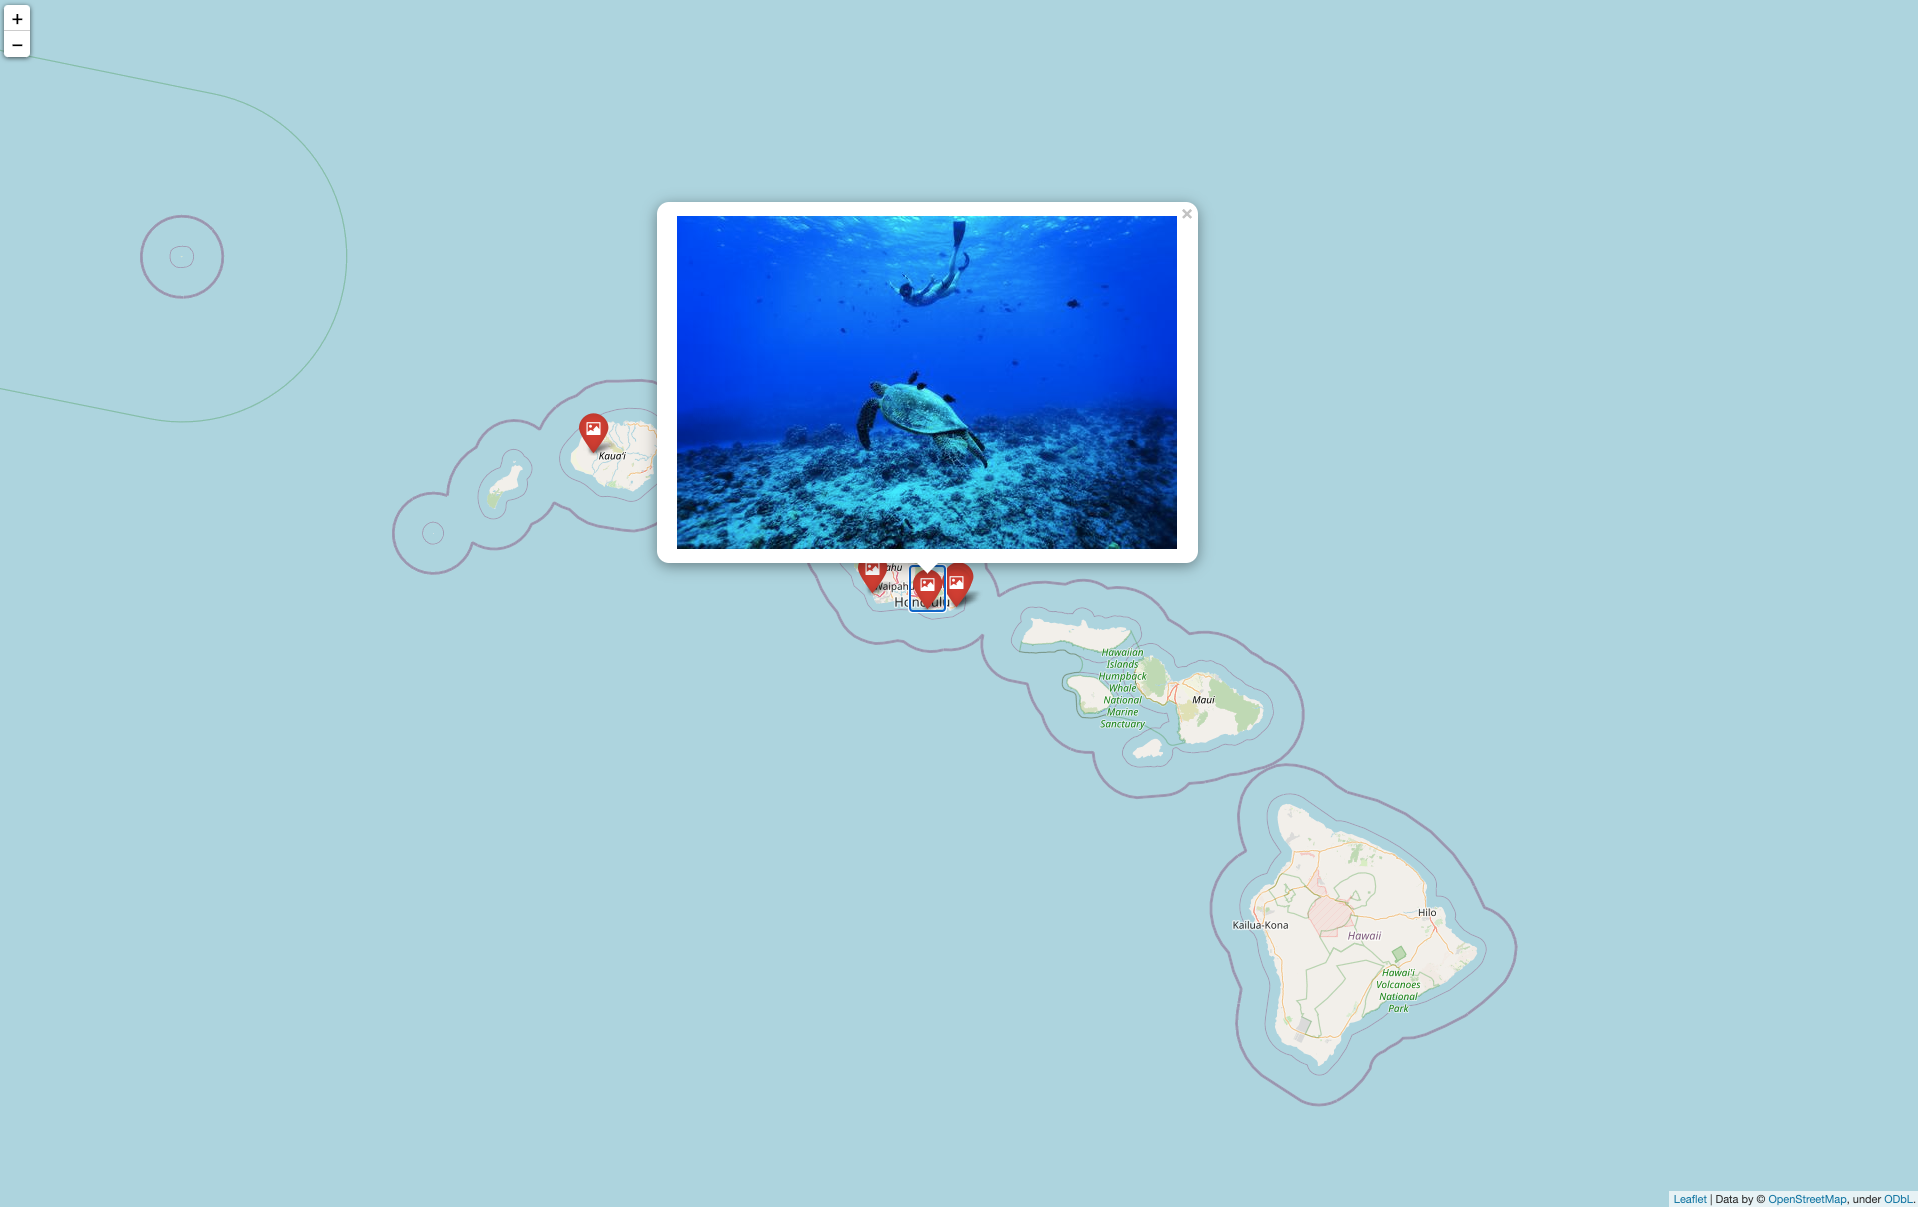
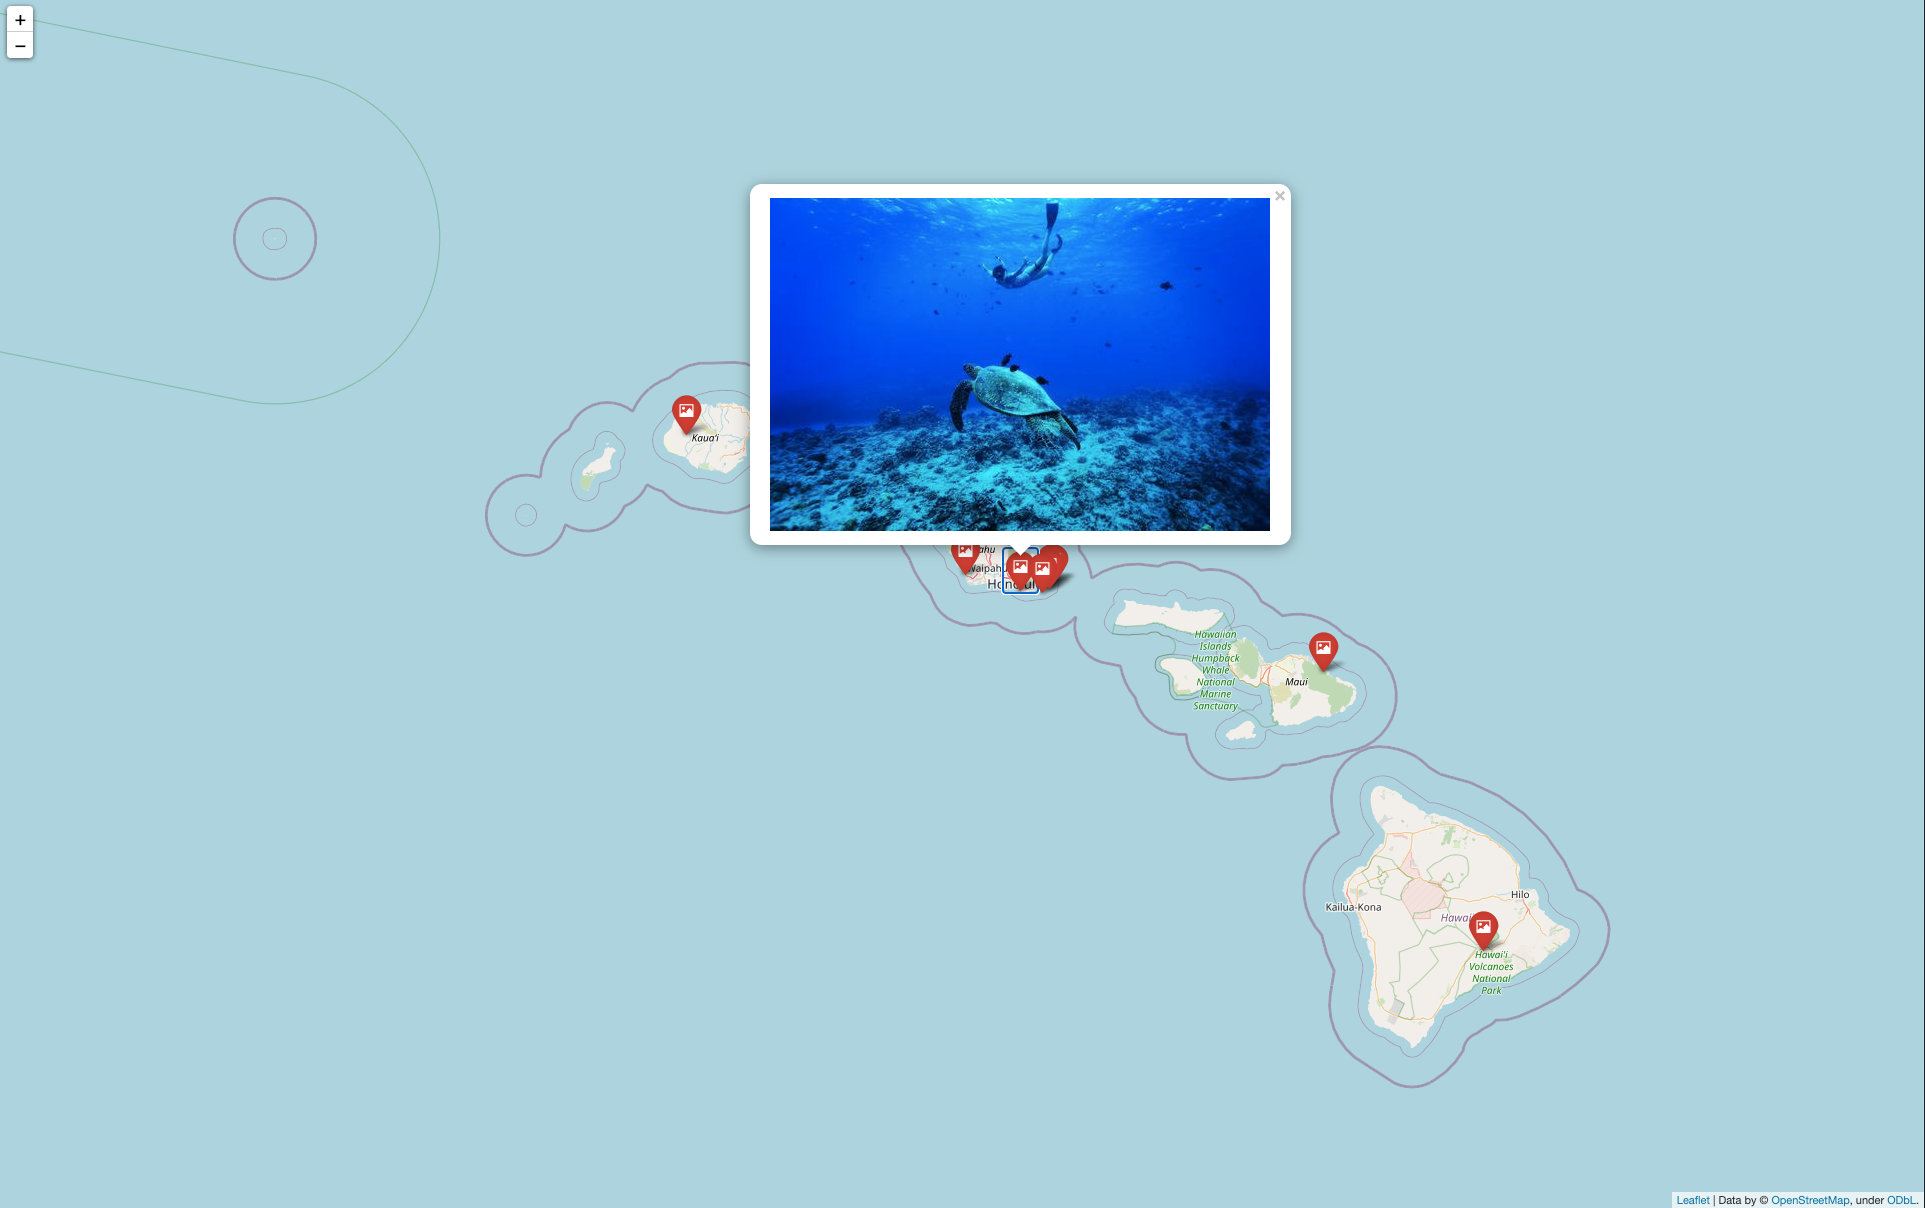
updated Hawaii photo map

diff --git a/HI_photo_map/HI_photo_map.html b/HI_photo_map/HI_photo_map.html
@@ -23,7 +23,7 @@
             <meta name="viewport" content="width=device-width,
                 initial-scale=1.0, maximum-scale=1.0, user-scalable=no" />
             <style>
-                #map_1778b9cac8e34a18972c1067f2814e41 {
+                #map_151ff289344e4fd0bc8cd398af7179ac {
                     position: relative;
                     width: 100.0%;
                     height: 100.0%;
@@ -35,13 +35,13 @@
 </head>
 <body>    
     
-            <div class="folium-map" id="map_1778b9cac8e34a18972c1067f2814e41" ></div>
+            <div class="folium-map" id="map_151ff289344e4fd0bc8cd398af7179ac" ></div>
         
 </body>
 <script>    
     
-            var map_1778b9cac8e34a18972c1067f2814e41 = L.map(
-                "map_1778b9cac8e34a18972c1067f2814e41",
+            var map_151ff289344e4fd0bc8cd398af7179ac = L.map(
+                "map_151ff289344e4fd0bc8cd398af7179ac",
                 {
                     center: [21.310665, -157.65995800000002],
                     crs: L.CRS.EPSG3857,
@@ -55,157 +55,257 @@
 
         
     
-            var tile_layer_125ace8a855c4006ab09678da1c03a6c = L.tileLayer(
+            var tile_layer_0d3f80edb4b34000b47f442fbccea69a = L.tileLayer(
                 "https://{s}.tile.openstreetmap.org/{z}/{x}/{y}.png",
                 {"attribution": "Data by \u0026copy; \u003ca href=\"http://openstreetmap.org\"\u003eOpenStreetMap\u003c/a\u003e, under \u003ca href=\"http://www.openstreetmap.org/copyright\"\u003eODbL\u003c/a\u003e.", "detectRetina": false, "maxNativeZoom": 18, "maxZoom": 18, "minZoom": 0, "noWrap": false, "opacity": 1, "subdomains": "abc", "tms": false}
-            ).addTo(map_1778b9cac8e34a18972c1067f2814e41);
+            ).addTo(map_151ff289344e4fd0bc8cd398af7179ac);
         
     
-            var marker_ce96613eab73425986d612bd2431685c = L.marker(
+            var marker_f58926746f054f9d9a1cb54aec8a5c6c = L.marker(
                 [21.310665, -157.65995800000002],
                 {}
-            ).addTo(map_1778b9cac8e34a18972c1067f2814e41);
+            ).addTo(map_151ff289344e4fd0bc8cd398af7179ac);
         
     
-            var icon_bcbe2043fa1a46138bafba561828b867 = L.AwesomeMarkers.icon(
+            var icon_5c18ddf4556040269b01476ec036f3ac = L.AwesomeMarkers.icon(
                 {"extraClasses": "fa-rotate-0", "icon": "picture", "iconColor": "white", "markerColor": "red", "prefix": "glyphicon"}
             );
-            marker_ce96613eab73425986d612bd2431685c.setIcon(icon_bcbe2043fa1a46138bafba561828b867);
+            marker_f58926746f054f9d9a1cb54aec8a5c6c.setIcon(icon_5c18ddf4556040269b01476ec036f3ac);
         
     
-        var popup_fa4739df42e341988206bd3262ebf797 = L.popup({"maxWidth": 500});
+        var popup_295a485c0f1b434bb1a3f6bbfbd962eb = L.popup({"maxWidth": 500});
 
         
-            var html_6f2b37d200aa4fb490f6aa81a6bbf4e3 = $(`<div id="html_6f2b37d200aa4fb490f6aa81a6bbf4e3" style="width: 100.0%; height: 100.0%;"><img src=./photos/thumbnails/20150228_151347.jpg></div>`)[0];
-            popup_fa4739df42e341988206bd3262ebf797.setContent(html_6f2b37d200aa4fb490f6aa81a6bbf4e3);
+            var html_3b40ccd76be747ce92a40b8fa1ae6469 = $(`<div id="html_3b40ccd76be747ce92a40b8fa1ae6469" style="width: 100.0%; height: 100.0%;"><img src=./photos/thumbnails/20150228_151347.jpg></div>`)[0];
+            popup_295a485c0f1b434bb1a3f6bbfbd962eb.setContent(html_3b40ccd76be747ce92a40b8fa1ae6469);
         
 
-        marker_ce96613eab73425986d612bd2431685c.bindPopup(popup_fa4739df42e341988206bd3262ebf797)
+        marker_f58926746f054f9d9a1cb54aec8a5c6c.bindPopup(popup_295a485c0f1b434bb1a3f6bbfbd962eb)
         ;
 
         
     
     
-            var marker_1e548837dd81431aaab9d9848bd94106 = L.marker(
+            var marker_5bc829d55922417fbf695b3def26ee57 = L.marker(
                 [22.0715, -159.6617],
                 {}
-            ).addTo(map_1778b9cac8e34a18972c1067f2814e41);
+            ).addTo(map_151ff289344e4fd0bc8cd398af7179ac);
         
     
-            var icon_79496dea79714476a48680c90d717e4e = L.AwesomeMarkers.icon(
+            var icon_dee5d3e647f14a70b3bb17164cdfbd0e = L.AwesomeMarkers.icon(
                 {"extraClasses": "fa-rotate-0", "icon": "picture", "iconColor": "white", "markerColor": "red", "prefix": "glyphicon"}
             );
-            marker_1e548837dd81431aaab9d9848bd94106.setIcon(icon_79496dea79714476a48680c90d717e4e);
+            marker_5bc829d55922417fbf695b3def26ee57.setIcon(icon_dee5d3e647f14a70b3bb17164cdfbd0e);
         
     
-        var popup_d2c17e06e3f147ae9c76d342105490a9 = L.popup({"maxWidth": 500});
+        var popup_875dace3b5124160836bc5b73f60c5e6 = L.popup({"maxWidth": 500});
 
         
-            var html_4c97ed02cd574f8eb7d87a2e42dc838a = $(`<div id="html_4c97ed02cd574f8eb7d87a2e42dc838a" style="width: 100.0%; height: 100.0%;"><img src=./photos/thumbnails/20151114_095713.jpg></div>`)[0];
-            popup_d2c17e06e3f147ae9c76d342105490a9.setContent(html_4c97ed02cd574f8eb7d87a2e42dc838a);
+            var html_340d559f53e54588800f88ff987e495e = $(`<div id="html_340d559f53e54588800f88ff987e495e" style="width: 100.0%; height: 100.0%;"><img src=./photos/thumbnails/20151114_095713.jpg></div>`)[0];
+            popup_875dace3b5124160836bc5b73f60c5e6.setContent(html_340d559f53e54588800f88ff987e495e);
         
 
-        marker_1e548837dd81431aaab9d9848bd94106.bindPopup(popup_d2c17e06e3f147ae9c76d342105490a9)
+        marker_5bc829d55922417fbf695b3def26ee57.bindPopup(popup_875dace3b5124160836bc5b73f60c5e6)
         ;
 
         
     
     
-            var marker_b0cd87b2c12d43ab9d2eebfea0b97ed0 = L.marker(
+            var marker_444629fccfb84903ba0e94c84ad3eb40 = L.marker(
                 [21.559002300000003, -157.863791],
                 {}
-            ).addTo(map_1778b9cac8e34a18972c1067f2814e41);
+            ).addTo(map_151ff289344e4fd0bc8cd398af7179ac);
         
     
-            var icon_858094ac69cb4b74acfbc6f30e3d8ff6 = L.AwesomeMarkers.icon(
+            var icon_b79e25af4fda4ec998cb27adb1a25c23 = L.AwesomeMarkers.icon(
                 {"extraClasses": "fa-rotate-0", "icon": "picture", "iconColor": "white", "markerColor": "red", "prefix": "glyphicon"}
             );
-            marker_b0cd87b2c12d43ab9d2eebfea0b97ed0.setIcon(icon_858094ac69cb4b74acfbc6f30e3d8ff6);
+            marker_444629fccfb84903ba0e94c84ad3eb40.setIcon(icon_b79e25af4fda4ec998cb27adb1a25c23);
         
     
-        var popup_8a9ed89b478f4f1fba46be18809b887d = L.popup({"maxWidth": 500});
+        var popup_06d53f853e074454a2d6ee4a407c1819 = L.popup({"maxWidth": 500});
 
         
-            var html_8fa8288fce1f4f3496231e192be53adf = $(`<div id="html_8fa8288fce1f4f3496231e192be53adf" style="width: 100.0%; height: 100.0%;"><img src=./photos/thumbnails/20151224_131404.jpg></div>`)[0];
-            popup_8a9ed89b478f4f1fba46be18809b887d.setContent(html_8fa8288fce1f4f3496231e192be53adf);
+            var html_5619109de2504e0c91d3ce5aae44c8ef = $(`<div id="html_5619109de2504e0c91d3ce5aae44c8ef" style="width: 100.0%; height: 100.0%;"><img src=./photos/thumbnails/20151224_131404.jpg></div>`)[0];
+            popup_06d53f853e074454a2d6ee4a407c1819.setContent(html_5619109de2504e0c91d3ce5aae44c8ef);
         
 
-        marker_b0cd87b2c12d43ab9d2eebfea0b97ed0.bindPopup(popup_8a9ed89b478f4f1fba46be18809b887d)
+        marker_444629fccfb84903ba0e94c84ad3eb40.bindPopup(popup_06d53f853e074454a2d6ee4a407c1819)
         ;
 
         
     
     
-            var marker_1d0fd3f72d574fb4956487f6472723a7 = L.marker(
+            var marker_a98d9d53c3e747509f7248fd50da5451 = L.marker(
                 [21.2857, -157.6727],
                 {}
-            ).addTo(map_1778b9cac8e34a18972c1067f2814e41);
+            ).addTo(map_151ff289344e4fd0bc8cd398af7179ac);
         
     
-            var icon_f445405334d64d39a098b2f43ff5b4ce = L.AwesomeMarkers.icon(
+            var icon_a754d7a632ca48acb2f2936138adc85d = L.AwesomeMarkers.icon(
                 {"extraClasses": "fa-rotate-0", "icon": "picture", "iconColor": "white", "markerColor": "red", "prefix": "glyphicon"}
             );
-            marker_1d0fd3f72d574fb4956487f6472723a7.setIcon(icon_f445405334d64d39a098b2f43ff5b4ce);
+            marker_a98d9d53c3e747509f7248fd50da5451.setIcon(icon_a754d7a632ca48acb2f2936138adc85d);
         
     
-        var popup_00f85806e999486683ca58ab8c7c4284 = L.popup({"maxWidth": 500});
+        var popup_97dd2f21ba3f482ba069d792e88df758 = L.popup({"maxWidth": 500});
 
         
-            var html_dce8664371184ad392478fbb1f182908 = $(`<div id="html_dce8664371184ad392478fbb1f182908" style="width: 100.0%; height: 100.0%;"><img src=./photos/thumbnails/G4396954.BESTIST.JPG></div>`)[0];
-            popup_00f85806e999486683ca58ab8c7c4284.setContent(html_dce8664371184ad392478fbb1f182908);
+            var html_51ff77c885ee4118ae84320177c2e58a = $(`<div id="html_51ff77c885ee4118ae84320177c2e58a" style="width: 100.0%; height: 100.0%;"><img src=./photos/thumbnails/G4396954.BESTIST.JPG></div>`)[0];
+            popup_97dd2f21ba3f482ba069d792e88df758.setContent(html_51ff77c885ee4118ae84320177c2e58a);
         
 
-        marker_1d0fd3f72d574fb4956487f6472723a7.bindPopup(popup_00f85806e999486683ca58ab8c7c4284)
+        marker_a98d9d53c3e747509f7248fd50da5451.bindPopup(popup_97dd2f21ba3f482ba069d792e88df758)
         ;
 
         
     
     
-            var marker_d81646be235849cdb137cfe59395637c = L.marker(
+            var marker_36570a8f54154c2182155a6f3b8bb5ab = L.marker(
                 [21.272993, -157.8287],
                 {}
-            ).addTo(map_1778b9cac8e34a18972c1067f2814e41);
+            ).addTo(map_151ff289344e4fd0bc8cd398af7179ac);
         
     
-            var icon_ad15ae07ff6141a7ba2e3f612d343da5 = L.AwesomeMarkers.icon(
+            var icon_94d0f251d6ec495b9915f185b883a391 = L.AwesomeMarkers.icon(
                 {"extraClasses": "fa-rotate-0", "icon": "picture", "iconColor": "white", "markerColor": "red", "prefix": "glyphicon"}
             );
-            marker_d81646be235849cdb137cfe59395637c.setIcon(icon_ad15ae07ff6141a7ba2e3f612d343da5);
+            marker_36570a8f54154c2182155a6f3b8bb5ab.setIcon(icon_94d0f251d6ec495b9915f185b883a391);
         
     
-        var popup_9b5da981e78e4d36be14c79726510b11 = L.popup({"maxWidth": 500});
+        var popup_c08a4975c29f4a48b241d11ab8a7c50c = L.popup({"maxWidth": 500});
 
         
-            var html_25c4cfd0125648f4b550de9517e9322f = $(`<div id="html_25c4cfd0125648f4b550de9517e9322f" style="width: 100.0%; height: 100.0%;"><img src=./photos/thumbnails/IMG_20181214_145604_044.jpg></div>`)[0];
-            popup_9b5da981e78e4d36be14c79726510b11.setContent(html_25c4cfd0125648f4b550de9517e9322f);
+            var html_b9dc08efa0fb4d5a93aaf922a45a9e78 = $(`<div id="html_b9dc08efa0fb4d5a93aaf922a45a9e78" style="width: 100.0%; height: 100.0%;"><img src=./photos/thumbnails/IMG_20181214_145604_044.jpg></div>`)[0];
+            popup_c08a4975c29f4a48b241d11ab8a7c50c.setContent(html_b9dc08efa0fb4d5a93aaf922a45a9e78);
         
 
-        marker_d81646be235849cdb137cfe59395637c.bindPopup(popup_9b5da981e78e4d36be14c79726510b11)
+        marker_36570a8f54154c2182155a6f3b8bb5ab.bindPopup(popup_c08a4975c29f4a48b241d11ab8a7c50c)
         ;
 
         
     
     
-            var marker_647cb145c7784de88c303805c6d520cc = L.marker(
+            var marker_79353dbb82fc4405a6f23ff41bc1ac5e = L.marker(
                 [21.355161, -158.132221],
                 {}
-            ).addTo(map_1778b9cac8e34a18972c1067f2814e41);
+            ).addTo(map_151ff289344e4fd0bc8cd398af7179ac);
         
     
-            var icon_6e24b28800f64e4cb67e7566eb08d877 = L.AwesomeMarkers.icon(
+            var icon_10df1dbdd880484e9b0cb48b935a69bb = L.AwesomeMarkers.icon(
                 {"extraClasses": "fa-rotate-0", "icon": "picture", "iconColor": "white", "markerColor": "red", "prefix": "glyphicon"}
             );
-            marker_647cb145c7784de88c303805c6d520cc.setIcon(icon_6e24b28800f64e4cb67e7566eb08d877);
+            marker_79353dbb82fc4405a6f23ff41bc1ac5e.setIcon(icon_10df1dbdd880484e9b0cb48b935a69bb);
         
     
-        var popup_6934e04593a64b6aa3c7270fe6669f70 = L.popup({"maxWidth": 500});
+        var popup_2da19068bec04d628bc131237e98b807 = L.popup({"maxWidth": 500});
 
         
-            var html_ac777078255a4472a7596701f27ad32b = $(`<div id="html_ac777078255a4472a7596701f27ad32b" style="width: 100.0%; height: 100.0%;"><img src=./photos/thumbnails/IMG_20190223_191704_687.jpg></div>`)[0];
-            popup_6934e04593a64b6aa3c7270fe6669f70.setContent(html_ac777078255a4472a7596701f27ad32b);
+            var html_b56b7d9fa4744eea8d459bc77b5bfb1a = $(`<div id="html_b56b7d9fa4744eea8d459bc77b5bfb1a" style="width: 100.0%; height: 100.0%;"><img src=./photos/thumbnails/IMG_20190223_191704_687.jpg></div>`)[0];
+            popup_2da19068bec04d628bc131237e98b807.setContent(html_b56b7d9fa4744eea8d459bc77b5bfb1a);
         
 
-        marker_647cb145c7784de88c303805c6d520cc.bindPopup(popup_6934e04593a64b6aa3c7270fe6669f70)
+        marker_79353dbb82fc4405a6f23ff41bc1ac5e.bindPopup(popup_2da19068bec04d628bc131237e98b807)
+        ;
+
+        
+    
+    
+            var marker_1117c6034d0546209042d8531cbb70ea = L.marker(
+                [21.2615, -157.7113],
+                {}
+            ).addTo(map_151ff289344e4fd0bc8cd398af7179ac);
+        
+    
+            var icon_16795928c6964ec8a4fb33a1ec8e89c9 = L.AwesomeMarkers.icon(
+                {"extraClasses": "fa-rotate-0", "icon": "picture", "iconColor": "white", "markerColor": "red", "prefix": "glyphicon"}
+            );
+            marker_1117c6034d0546209042d8531cbb70ea.setIcon(icon_16795928c6964ec8a4fb33a1ec8e89c9);
+        
+    
+        var popup_e3e0c1b407d5457285a6e9620a1ca011 = L.popup({"maxWidth": 500});
+
+        
+            var html_2e422b1f0f3f43629eb53b76ec490545 = $(`<div id="html_2e422b1f0f3f43629eb53b76ec490545" style="width: 100.0%; height: 100.0%;"><img src=./photos/thumbnails/DB9A1066.JPG></div>`)[0];
+            popup_e3e0c1b407d5457285a6e9620a1ca011.setContent(html_2e422b1f0f3f43629eb53b76ec490545);
+        
+
+        marker_1117c6034d0546209042d8531cbb70ea.bindPopup(popup_e3e0c1b407d5457285a6e9620a1ca011)
+        ;
+
+        
+    
+    
+            var marker_64284333d2a94ffaa1436f38d82955e2 = L.marker(
+                [21.310679500000003, -157.6492622],
+                {}
+            ).addTo(map_151ff289344e4fd0bc8cd398af7179ac);
+        
+    
+            var icon_c25bd3792c5d4adab89f747fe56dac11 = L.AwesomeMarkers.icon(
+                {"extraClasses": "fa-rotate-0", "icon": "picture", "iconColor": "white", "markerColor": "red", "prefix": "glyphicon"}
+            );
+            marker_64284333d2a94ffaa1436f38d82955e2.setIcon(icon_c25bd3792c5d4adab89f747fe56dac11);
+        
+    
+        var popup_e5832ac00c5148f1986e247862b8bcb2 = L.popup({"maxWidth": 500});
+
+        
+            var html_7cc5dd98ac6d4297a27ff7308dad8eb1 = $(`<div id="html_7cc5dd98ac6d4297a27ff7308dad8eb1" style="width: 100.0%; height: 100.0%;"><img src=./photos/thumbnails/DB9A4377_TopazDramatic.jpg></div>`)[0];
+            popup_e5832ac00c5148f1986e247862b8bcb2.setContent(html_7cc5dd98ac6d4297a27ff7308dad8eb1);
+        
+
+        marker_64284333d2a94ffaa1436f38d82955e2.bindPopup(popup_e5832ac00c5148f1986e247862b8bcb2)
+        ;
+
+        
+    
+    
+            var marker_8a4c7ce7b2004b999898b4491bf3aaa9 = L.marker(
+                [20.861007, -156.167559],
+                {}
+            ).addTo(map_151ff289344e4fd0bc8cd398af7179ac);
+        
+    
+            var icon_73dd9d03b5614a4894404c100b987917 = L.AwesomeMarkers.icon(
+                {"extraClasses": "fa-rotate-0", "icon": "picture", "iconColor": "white", "markerColor": "red", "prefix": "glyphicon"}
+            );
+            marker_8a4c7ce7b2004b999898b4491bf3aaa9.setIcon(icon_73dd9d03b5614a4894404c100b987917);
+        
+    
+        var popup_98c51e46613e41a1abc7ddd4a1b651b7 = L.popup({"maxWidth": 500});
+
+        
+            var html_2f5dd929478a4d1a920ed036d22a8fc2 = $(`<div id="html_2f5dd929478a4d1a920ed036d22a8fc2" style="width: 100.0%; height: 100.0%;"><img src=./photos/thumbnails/DB9A4964_tonemapped.jpg></div>`)[0];
+            popup_98c51e46613e41a1abc7ddd4a1b651b7.setContent(html_2f5dd929478a4d1a920ed036d22a8fc2);
+        
+
+        marker_8a4c7ce7b2004b999898b4491bf3aaa9.bindPopup(popup_98c51e46613e41a1abc7ddd4a1b651b7)
+        ;
+
+        
+    
+    
+            var marker_898372f135484c468025db88e9246587 = L.marker(
+                [19.4194, -155.2885],
+                {}
+            ).addTo(map_151ff289344e4fd0bc8cd398af7179ac);
+        
+    
+            var icon_a157799c7e454f8889a9b4af4a783c44 = L.AwesomeMarkers.icon(
+                {"extraClasses": "fa-rotate-0", "icon": "picture", "iconColor": "white", "markerColor": "red", "prefix": "glyphicon"}
+            );
+            marker_898372f135484c468025db88e9246587.setIcon(icon_a157799c7e454f8889a9b4af4a783c44);
+        
+    
+        var popup_e9b5a6641e5544079ec355528db40b9a = L.popup({"maxWidth": 500});
+
+        
+            var html_17437b58cac24b14b4b0901936e840a6 = $(`<div id="html_17437b58cac24b14b4b0901936e840a6" style="width: 100.0%; height: 100.0%;"><img src=./photos/thumbnails/DB9A9887.JPG></div>`)[0];
+            popup_e9b5a6641e5544079ec355528db40b9a.setContent(html_17437b58cac24b14b4b0901936e840a6);
+        
+
+        marker_898372f135484c468025db88e9246587.bindPopup(popup_e9b5a6641e5544079ec355528db40b9a)
         ;
 
         
